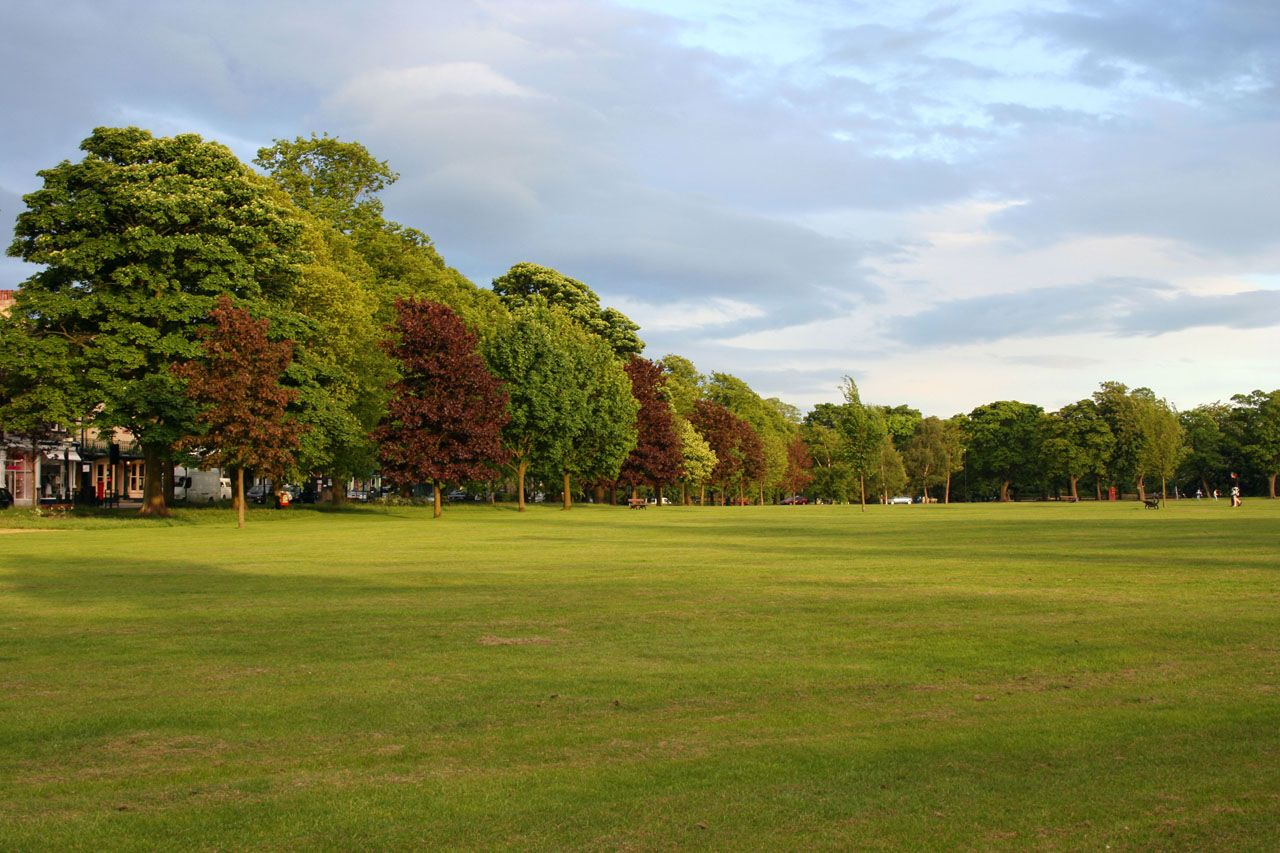
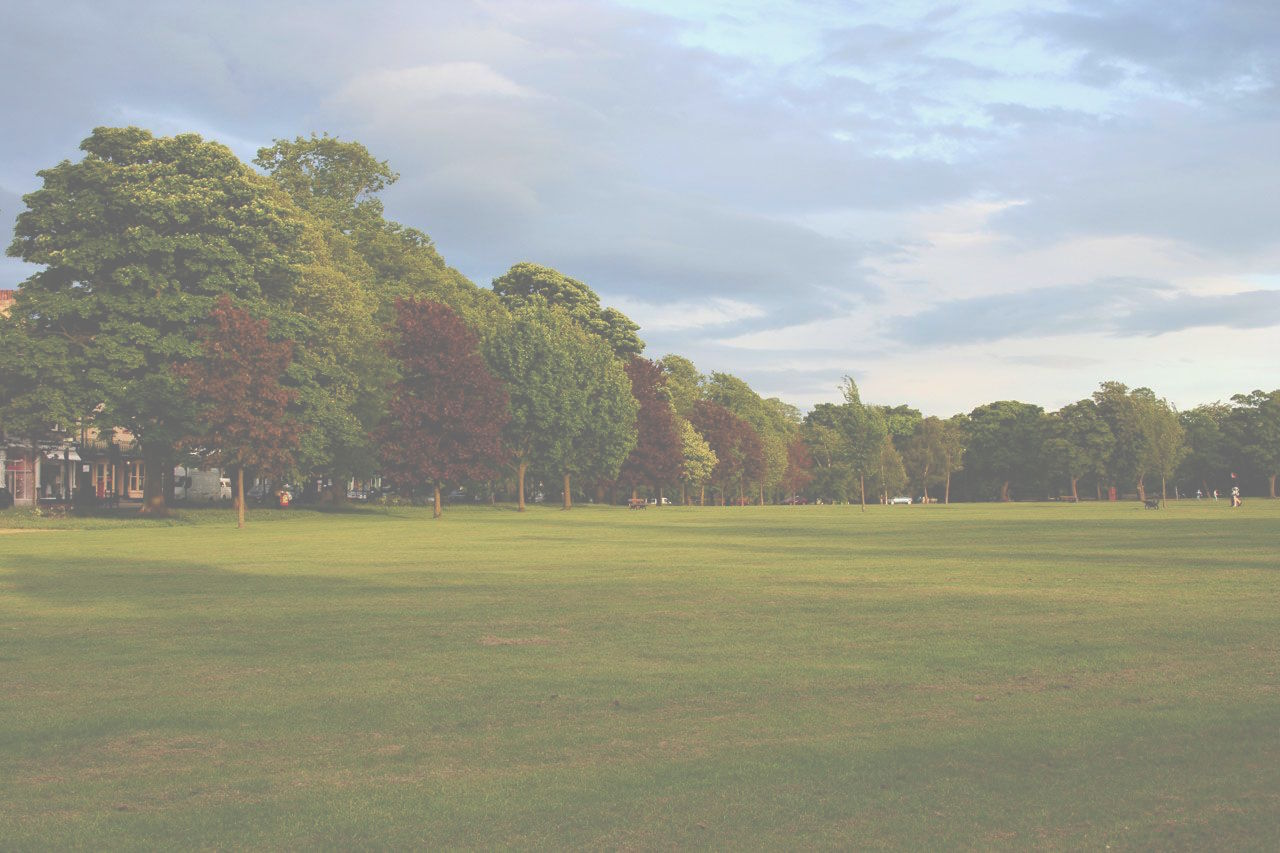
background image change and .css to .html connected.
Test Plan: web page to look cleaner

Reviewers: LeslyGJ, araceli19

Differential Revision: http://csumbse.net/D157

diff --git a/src/main/html/home.css b/src/main/html/home.css
@@ -27,11 +27,17 @@ body{
   /*background-color: Cyan;*/
   /*background: #C4BD8B; */
     text-align: center;
-    background: url(img/park.jpg) no-repeat center center fixed; 
+    background: url(park.jpg) no-repeat center center fixed; 
+   
+    
 
     background-repeat: no-repeat;
     background-attachment: fixed;
     overflow: auto;
+}
+
+img{
+     opacity: 0.5;
 }
 
 .intro{

diff --git a/src/main/html/login.html b/src/main/html/login.html
@@ -3,9 +3,9 @@
     <head>
         <title>Community Service Finder </title>
         
-        <style>
-            @import url(https://preview.c9users.io/cuin5880/communityservice/home.css);
-        </style>
+        
+            <link rel="stylesheet" href="home.css"> 
+     
     </head>
     <body background = "img/park.jpg">
         <header>

diff --git a/src/main/html/providerLogin.html b/src/main/html/providerLogin.html
@@ -3,9 +3,7 @@
     <head>
         <title>Community Service Finder </title>
         
-        <style>
-            @import url(https://preview.c9users.io/cuin5880/communityservice/home.css);
-        </style>
+      <link rel="stylesheet" href="home.css">
     </head>
     <body background = "img/park.jpg">
         <header>

diff --git a/src/main/html/home.html b/src/main/html/home.html
@@ -3,9 +3,9 @@
     <head>
         <title> Community Service Finder</title>
         
-        <style>
-            @import url(https://preview.c9users.io/cuin5880/communityservice/home.css);
-        </style>
+        
+            <link rel="stylesheet" href="home.css">
+       
         
     </head>
     <body>
